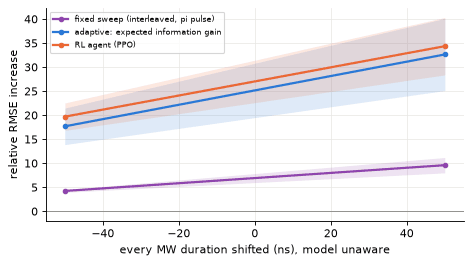
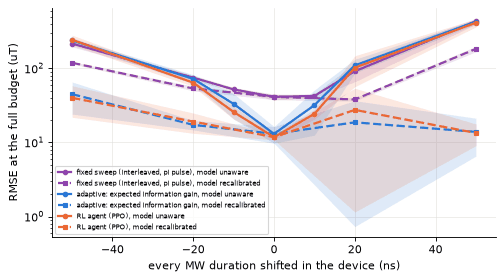
Milestone 5 Task 1 report: recalibrated timing probe, absolute shifted RMSEs, detuned floor, 8-field reference
Rerun (run 20261127-192539): headline numbers unchanged (RL 11.8, EIG 13.1,
fixed 41.3 uT; CNN 56.6). The frozen-model 'much more than the fixed sweep'
claim is withdrawn: shifted, every policy ends at the same absolute error.
With the model recalibrated the agent keeps the long pulse as the greedy
design does, and the information depends on the pulse area. The pi-only
cost is marked not significant; the detuned residual is explained as
MW-free field dependence against the per-seed prior floor; shift labels
use the durations as run.

Claude-Session: https://claude.ai/code/session_011moV3EPNNknRWZQ686AChh

diff --git a/glowbox/experiments/m5_adaptive_field.py b/glowbox/experiments/m5_adaptive_field.py
@@ -997,12 +997,11 @@ def report_body(task: AdaptiveTask, qt: QuantumTestResult, tv: dict[str, Any], r
                 for s in shifts:
                     fr = P[n][mode][s]["dur_fractions"]
                     top = P[n]["recal_top"][s]["top_dur_index"]
-                    d_ns = task.spec.durations_ns[top] + s
+                    sd = shifted(task.spec, s).durations_ns  # as run (floored at the pulse grid)
+                    d_ns = sd[top]
                     L.append(
                         f"- {LABELS[n]}, recalibrated {s:+d} ns: duration fractions "
-                        + ", ".join(
-                            f"{task.spec.durations_ns[j] + s} ns {_ci(fr[j], '{:.2f}')}" for j in range(task.spec.n_dur)
-                        )
+                        + ", ".join(f"{sd[j]} ns {_ci(fr[j], '{:.2f}')}" for j in range(task.spec.n_dur))
                         + f"; most chosen {d_ns} ns, preferred beyond uniform: "
                         f"{'yes' if P[n]['recal_top'][s]['prefers'] else 'no'}."
                     )

diff --git a/docs/results/m5-adaptive-field.md b/docs/results/m5-adaptive-field.md
@@ -14,11 +14,12 @@ RMSE of the folded field after 40000 shots, mean over 5 seeds [95 % Student-t CI
 | RL agent (PPO) | 11.8 [10.9, 12.7] | 806 [794, 818] | 794 [781, 807] | yes |
 | RL network before training (greedy) | 334 [-154, 822] | 805 [792, 817] | 471 [-14, 955] | no |
 | random measurements | 82.2 [53.9, 111] | 809 [783, 835] | 727 [693, 761] | yes |
-| M2 CNN on the fixed sweep | 56.9 [38.5, 75.2] | 823 [812, 834] | 766 [744, 788] | yes |
+| M2 CNN on the fixed sweep | 56.6 [38.9, 74.3] | 823 [812, 834] | 766 [744, 789] | yes |
 | prior only | 829 | 829 | | |
 
-- Paired differences, resonant (positive = the second is better), uT: fixed - EIG 28.2 [27.7, 28.7]; fixed - RL 29.5 [26.4, 32.6]; RL - EIG -1.3 [-4.22, 1.61]; RL before training - RL 322 [-166, 811]; EIG pi only - EIG 15.1 [-1.65, 31.9]; CNN - fixed 15.6 [0.713, 30.5]; random - fixed 40.9 [11.3, 70.6].
-- **Quantum test**: with every MW frequency shifted by 400 MHz (no line within 218 MHz of any MW frequency; the agent and the CNN retrained there) the detuned skill (1 - RMSE / prior RMSE) is between 0.00736 and 0.0294; the gap is significant for 6 of 7 learners (fixed, eig, eig_pi, rl, random, cnn).
+- Paired differences, resonant (positive = the second is better), uT: fixed - EIG 28.2 [27.7, 28.7]; fixed - RL 29.5 [26.4, 32.6]; RL - EIG -1.3 [-4.22, 1.61]; RL before training - RL 322 [-166, 811]; EIG pi only - EIG 15.1 [-1.65, 31.9]; CNN - fixed 15.3 [1.15, 29.5]; random - fixed 40.9 [11.3, 70.6].
+- **Quantum test**: with every MW frequency shifted by 400 MHz (no line within 218 MHz of any MW frequency; the agent and the CNN retrained there) the detuned skill (1 - RMSE / prior RMSE) is between 0.00752 and 0.0294; the gap is significant for 6 of 7 learners (fixed, eig, eig_pi, rl, random, cnn).
+- The detuned floor: the prior's mean on each seed's 200 test fields scores 822 [811, 832] uT (the 829 uT above is the prior's RMSE over the whole prior; a finite test set scatters around it). Detuned RMSE minus this per-seed floor, uT: fixed -15.8 [-29.2, -2.38]; eig -13.1 [-19.2, -6.91]; rl -16 [-21.5, -10.5]; cnn 1.1 [-0.137, 2.33]. The remaining small skill is not MW leakage: far from any line the glow still depends weakly on the field without microwaves (the off-axis field mixes the spin states): the noiseless means of one action differ by up to 0.0059 counts per shot across the test fields (resonant: 0.76), against a block shot noise of ~0.092.
 - Timing: the RL agent's strategy uses microsecond-scale (Rabi-scale) timing: **yes** (details below).
 
 ## Interpretation
@@ -35,40 +36,59 @@ RMSE of the folded field after 40000 shots, mean over 5 seeds [95 % Student-t CI
 - **What they learned: search, then a long pulse.** Both adaptive learners spend 80-87 % of their blocks on the
   400 ns pulse (3.92 pi at the nominal Rabi scale) and most of the rest on the 100 ns pi pulse. The long pulse has
   a narrower excitation profile, so once a line is located it pins its position more sharply; a fixed sweep at 400
-  ns is poor (205 uT) because it has no search phase. Restricting the greedy design to the pi pulse costs 15.1
-  [-1.7, 31.9] uT (28.2 vs 13.1, one seed at 50.8), so choosing the duration matters as well as the frequency.
+  ns is poor (205 uT) because it has no search phase. Restricting the greedy design to the pi pulse is worse at the
+  full budget by 15.1 [-1.7, 31.9] uT (28.2 vs 13.1): suggestive, not significant at 5 seeds (four seeds are about
+  10 uT worse, one is at 50.8 uT), so whether choosing the duration matters as well as the frequency is open.
 - **What PPO adds.** The same network before training, run greedily on its features (which include the predictive
   spread), is bimodal over seeds: 25-71 uT on three, ~765 uT (stuck, never leaves the prior) on two. Trained, every
   seed lands at 10.9-12.8 uT. The agent did not see the information gain; it learned an equivalent choice from
   the predictive features and the error reward.
-- **Comparison with the earlier learners.** Milestone 2's CNN on the fixed sweep reaches 56.9 uT on the same
-  shots, worse than the posterior on the same data (CNN - fixed 15.6 [0.7, 30.5] uT): with a calibrated device the
+- **Comparison with the earlier learners.** Milestone 2's CNN on the fixed sweep reaches 56.6 uT on the same
+  shots, worse than the posterior on the same data (CNN - fixed 15.3 [1.2, 29.5] uT): with a calibrated device the
   model-based posterior extracts more from a sweep than the trained decoder. Milestone 4's learned sensor protocol
   (69.1 uT at 40 points x 1000 shots, the same total) marginalised over unknown device parameters, which this
   milestone does not (below), so the numbers are not directly comparable.
-- **Timing.** The adaptive strategies depend on calibrated pulse areas much more than the fixed sweep: shifting
-  every MW duration by 50 ns while the learners' model keeps the nominal ones multiplies their error 19-35 fold
-  (fixed sweep: 5-11 fold). They work on line flanks with the long pulse, where a wrong rotation angle shifts the
-  predicted response most. This is reliance on the Rabi rotation angle (microsecond-scale timing on the Rabi
-  scale); no echo structure is available in this action set.
+- **Timing.** Evidence that the agent's strategy uses Rabi-scale timing: (1) it puts 87 % of its blocks on one
+  pulse area, the 400 ns (~4 pi) pulse, as the greedy design does (80 %); (2) with every MW duration shifted by
+  -50, -20, +20 or +50 ns and the learners' model rebuilt for the shifted durations (agent not retrained), the
+  agent still puts 86-93 % of its blocks on the longest pulse, the same choice the greedy design makes on the
+  shifted model (76-81 %); (3) the information itself depends on the pulse area: recalibrated at +50 ns the
+  adaptive learners stay at nominal accuracy (EIG 13.9, RL 13.4 uT) while the fixed sweep, whose pi pulse becomes
+  ~1.5 pi, falls to 184 uT; at -50 ns (350 ns long pulse) EIG and RL lose 31.8 [8.0, 55.6] and 28.3 [9.5, 47.1] uT.
+  Caveat: the agent sees each action's duration index, so keeping the longest pulse could partly be a habit; the
+  agreement with the greedy design on every shifted model is what says it is also the informative choice. The
+  probe with the model unaware of the shift is a calibration test, not a strategy test: every policy degrades to
+  about the same absolute error (at +50 ns fixed 435, EIG 427, RL 414 uT; at -50 ns 216, 238, 244 uT; paired
+  differences from the fixed sweep include zero), so the large ratios of the adaptive learners (x19-35 vs x5-11)
+  only reflect their smaller unshifted error. At +-10 ns the adaptive learners stay better than the fixed sweep
+  (RL - fixed -26.3 [-32.8, -19.8] uT at -10 ns). No echo structure is available in this action set.
 - **Quantum test.** Detuned by 400 MHz (no line within 218 MHz of any MW frequency; agent and CNN retrained there),
-  every policy stays at the prior (~806-823 uT vs 829); the gaps are large and significant for every learner except
+  every policy stays near the prior (~806-823 uT); the gaps are large and significant for every learner except
   the untrained network (whose resonant result is itself unreliable): RL 794 [781, 807] uT, EIG 796 [786, 805] uT.
-- **Reference.** Through `Simulator.run()` with the QuTiP reference as the device, the measured means of every
-  action the seed-0 agent and design chose agree with the surrogate to 6.4e-4 of the signal spread. The noisy
-  RMSEs on the two reference fields (RL 13.5 vs 9.4 uT, EIG 8.7 vs 11.3 uT) are within the per-field noise.
+  The small detuned skill that remains (posterior learners 13-16 uT below the per-seed prior-mean floor of 822
+  [811, 832] uT on the same test fields; the CNN at the floor) is not MW leakage: far from every line the glow
+  still depends weakly on the field without microwaves (an off-axis field mixes the spin states; up to 0.006
+  counts per shot across test fields, against a block shot noise of 0.09), and the model-based posterior uses it.
+  The 829 uT "prior only" line is the prior's RMSE over the whole prior, not the per-seed floor.
+- **Reference.** Through `Simulator.run()` with the QuTiP reference as the device, on 8 test fields including the
+  one where the emulator is worst, the measured means of every action the seed-0 agent and design chose agree with
+  the surrogate to 8e-4 of the signal spread. The end-to-end RMSEs there (RL 11.8 vs 11.7 uT, EIG 7.6 vs 9.6 uT,
+  one noisy episode per field) are a noise-level check only.
 
 ## Assumptions and limits
 
 - The device is calibrated: every learner knows the device parameters and only the field is hidden. Milestones 2-4
   marginalised over nuisance parameters; a nuisance-aware posterior (more particle dimensions) is left for later.
 - The learners' model is the emulator table, not the surrogate itself (RMS error 0.23 % of the signal spread, max
-  62 %, i.e. 0.048 counts per shot against a block shot noise of 0.092).
+  62 %, i.e. 0.048 counts per shot against a block shot noise of 0.092). The reference check includes the
+  worst-emulator field but covers 8 of 200 fields.
 - The agent's reward uses the true field (simulation only); `reward="variance"` (the posterior's own width) is
-  implemented for hardware but not used here. 40 PPO iterations per seed and condition (RL training is 156 of the
-  270 min wall time); the agent is trained with 256 particles and no restarts, evaluated with 512 and restarts.
+  implemented for hardware but not used here. 40 PPO iterations per seed and condition (RL training is 132 of the
+  326 min wall time); the agent is trained with 256 particles and no restarts, evaluated with 512 and restarts.
 - Discrete actions (2 MHz frequency grid x four durations at one amplitude), one MW pulse per shot; the design is
   greedy (one step ahead) with a Gaussian approximation to the information gain.
+- The recalibrated timing probe rebuilds the model for shifted durations but does not retrain the agent; shifting
+  by -50 ns floors the 50 ns pulse at the 10 ns pulse grid.
 - Field target and folding as in milestone 2 (wedge Bx >= By >= Bz >= 0). Design notes:
   [docs/notes/adaptive-rl.md](../notes/adaptive-rl.md).
 
@@ -78,22 +98,22 @@ RMSE (uT) vs total shots, resonant, mean [95 % t CI] over seeds:
 
 | total shots | fixed sweep (interleaved, pi pulse) | fixed sweep, whole band at fewer shots | adaptive: expected information gain | adaptive EIG, pi pulse only | RL agent (PPO) | random measurements | M2 CNN on the fixed sweep |
 | --- | --- | --- | --- | --- | --- | --- | --- |
-| 2000 | 733 [709, 757] | 473 [440, 506] | 476 [428, 523] | 477 [431, 524] | 480 [423, 537] | 692 [682, 703] | 513 [484, 543] |
-| 4000 | 509 [460, 557] | 356 [335, 376] | 257 [217, 298] | 285 [264, 307] | 276 [222, 330] | 588 [556, 620] | 388 [357, 418] |
-| 10000 | 156 [132, 180] | 162 [140, 184] | 66.4 [43.6, 89.2] | 51.4 [39, 63.7] | 109 [42.7, 176] | 410 [379, 441] | 199 [180, 219] |
-| 20000 | 69.2 [50.1, 88.3] | 61.6 [54, 69.2] | 38.1 [14.3, 61.8] | 36 [22.1, 49.9] | 40.7 [13.9, 67.5] | 230 [210, 249] | 93.3 [81.2, 105] |
-| 40000 | 41.3 [37.7, 44.9] | 40.1 [38.2, 42] | 13.1 [9.77, 16.4] | 28.2 [12.5, 43.9] | 11.8 [10.9, 12.7] | 82.2 [53.9, 111] | 56.9 [38.5, 75.2] |
+| 2000 | 733 [709, 757] | 473 [440, 506] | 476 [428, 523] | 477 [431, 524] | 480 [423, 537] | 692 [682, 703] | 514 [483, 545] |
+| 4000 | 509 [460, 557] | 356 [335, 376] | 257 [217, 298] | 285 [264, 307] | 276 [222, 330] | 588 [556, 620] | 389 [358, 420] |
+| 10000 | 156 [132, 180] | 162 [140, 184] | 66.4 [43.6, 89.2] | 51.4 [39, 63.7] | 109 [42.7, 176] | 410 [379, 441] | 198 [177, 218] |
+| 20000 | 69.2 [50.1, 88.3] | 61.6 [54, 69.2] | 38.1 [14.3, 61.8] | 36 [22.1, 49.9] | 40.7 [13.9, 67.5] | 230 [210, 249] | 93.5 [81.4, 106] |
+| 40000 | 41.3 [37.7, 44.9] | 40.1 [38.2, 42] | 13.1 [9.77, 16.4] | 28.2 [12.5, 43.9] | 11.8 [10.9, 12.7] | 82.2 [53.9, 111] | 56.6 [38.9, 74.3] |
 
-Shots until the RMSE over the test fields first falls below a threshold (mean over seeds; n/a = not within the budget):
+Shots until the RMSE over the test fields first falls below a threshold: mean over seeds when every seed reaches it; otherwise the median with the seeds that never reach it counted as beyond the budget (a mean over only the seeds that reach it would be biased low):
 
 | policy | <= 200 uT | <= 100 uT | <= 50 uT |
 | --- | --- | --- | --- |
 | fixed sweep (interleaved, pi pulse) | 8.88e+03 | 1.41e+04 | 2.88e+04 |
 | adaptive: expected information gain | 4.96e+03 | 8.08e+03 | 1.88e+04 |
-| adaptive EIG, pi pulse only | 5.68e+03 | 8.48e+03 | 1.01e+04 (4/5 seeds) |
+| adaptive EIG, pi pulse only | 5.68e+03 | 8.48e+03 | median 1e+04 (4/5 seeds reach it) |
 | RL agent (PPO) | 6.4e+03 | 1.26e+04 | 1.87e+04 |
-| RL network before training (greedy) | 1.27e+04 (3/5 seeds) | 1.95e+04 (3/5 seeds) | 3.7e+04 (2/5 seeds) |
-| random measurements | 2.42e+04 | 3.42e+04 (4/5 seeds) | n/a (0/5 seeds) |
+| RL network before training (greedy) | median 1.64e+04 (3/5 seeds reach it) | median 2.64e+04 (3/5 seeds reach it) | > 4e+04 (2/5 seeds reach it) |
+| random measurements | 2.42e+04 | median 3.52e+04 (4/5 seeds reach it) | > 4e+04 (0/5 seeds reach it) |
 
 ## Fixed sweeps at each duration
 
@@ -115,23 +135,42 @@ Durations (pulse areas at the nominal Rabi scale) chosen, fraction of all blocks
 | adaptive: expected information gain | 0.00 [-0.00, 0.00] | 0.16 [0.15, 0.17] | 0.04 [0.03, 0.05] | 0.80 [0.79, 0.81] |
 | RL agent (PPO) | 0.00 [-0.00, 0.00] | 0.12 [0.10, 0.15] | 0.01 [0.00, 0.02] | 0.87 [0.84, 0.89] |
 
-Every MW duration shifted in the device while the learners' model assumes the nominal durations; relative RMSE increase [t CI]:
+Every MW duration shifted in the device, the learners' model keeps the nominal durations (miscalibrated model): RMSE (uT) at the full budget [t CI], and the ratio to the unshifted RMSE:
 
-| policy | -50 ns | +50 ns |
-| --- | --- | --- |
-| fixed sweep (interleaved, pi pulse) | +4.24 [+3.95, +4.52] | +9.60 [+8.00, +11.20] |
-| adaptive: expected information gain | +17.68 [+13.88, +21.48] | +32.63 [+25.12, +40.14] |
-| RL agent (PPO) | +19.69 [+16.84, +22.54] | +34.35 [+28.38, +40.32] |
+| policy | unshifted | -50 ns | -20 ns | -10 ns | +10 ns | +20 ns | +50 ns |
+| --- | --- | --- | --- | --- | --- | --- | --- |
+| fixed sweep (interleaved, pi pulse) | 41.3 [37.7, 44.9] | 216 [195, 237] (x5.2) | 75 [69, 81] (x1.8) | 52 [48.8, 55.3] (x1.3) | 42.5 [39.7, 45.3] (x1) | 91.5 [66, 117] (x2.2) | 435 [394, 476] (x11) |
+| adaptive: expected information gain | 13.1 [9.77, 16.4] | 238 [220, 257] (x19) | 72.2 [62.2, 82.1] (x5.6) | 33.1 [20.7, 45.6] (x2.5) | 31.9 [12.6, 51.2] (x2.3) | 110 [86.6, 133] (x8.7) | 427 [399, 456] (x34) |
+| RL agent (PPO) | 11.8 [10.9, 12.7] | 244 [206, 281] (x21) | 64.1 [57.2, 71] (x5.5) | 25.8 [20.7, 30.9] (x2.2) | 24.4 [20.7, 28.1] (x2.1) | 102 [56.5, 148] (x8.7) | 414 [364, 465] (x35) |
 
-- fixed sweep (interleaved, pi pulse): relies on its pulse timing (> 10 % worse at the largest shift, CI): yes.
-- adaptive: expected information gain: relies on its pulse timing (> 10 % worse at the largest shift, CI): yes; most chosen duration 400 ns (3.92 pi), preferred beyond uniform: yes.
-- RL agent (PPO): relies on its pulse timing (> 10 % worse at the largest shift, CI): yes; most chosen duration 400 ns (3.92 pi), preferred beyond uniform: yes.
-- `strategy_learns_timing` (RL: relies on pulse timing and prefers a pulse area) = **True**.
+- Paired, model unaware, learner - fixed sweep (uT): -50 ns: EIG 22.4 [-3.54, 48.3], RL 27.5 [-25.5, 80.5]; -20 ns: EIG -2.8 [-10.9, 5.32], RL -10.9 [-22.1, 0.365]; -10 ns: EIG -18.9 [-30.4, -7.47], RL -26.3 [-32.8, -19.8]; +10 ns: EIG -10.7 [-31, 9.65], RL -18.2 [-23.4, -12.9]; +20 ns: EIG 18.3 [1.3, 35.2], RL 10.8 [-43.6, 65.2]; +50 ns: EIG -7.65 [-49.3, 34], RL -20.8 [-45.7, 4.07]. With a miscalibrated model every model-based estimator degrades whatever its strategy, so this probe measures the sensitivity to calibration and is not used for the timing verdict; the large ratios of the adaptive learners come from their smaller unshifted error.
+
+Every MW duration shifted in the device, the learners' model (emulator table) rebuilt for the shifted durations, policies unchanged (the agent is not retrained): RMSE (uT) at the full budget [t CI], and the ratio to the unshifted RMSE:
+
+| policy | unshifted | -50 ns | -20 ns | +20 ns | +50 ns |
+| --- | --- | --- | --- | --- | --- |
+| fixed sweep (interleaved, pi pulse) | 41.3 [37.7, 44.9] | 119 [115, 123] (x2.9) | 53.5 [49.7, 57.3] (x1.3) | 38.1 [36.2, 39.9] (x0.92) | 184 [168, 200] (x4.5) |
+| adaptive: expected information gain | 13.1 [9.77, 16.4] | 44.9 [24.2, 65.5] (x3.7) | 17.3 [14.8, 19.8] (x1.4) | 18.7 [0.732, 36.7] (x1.4) | 13.9 [6.55, 21.3] (x1.1) |
+| RL agent (PPO) | 11.8 [10.9, 12.7] | 40.1 [21.9, 58.3] (x3.5) | 19.1 [13.3, 25] (x1.6) | 27.5 [1.15, 53.9] (x2.3) | 13.4 [9.07, 17.8] (x1.1) |
+
+- Recalibrated, shifted - unshifted RMSE (uT): -50 ns: fixed 77.8 [73.9, 81.6], eig 31.8 [7.98, 55.6], rl 28.3 [9.51, 47.1]; -20 ns: fixed 12.3 [8.06, 16.4], eig 4.21 [0.958, 7.45], rl 7.35 [1.14, 13.6]; +20 ns: fixed -3.23 [-5.46, -1.01], eig 5.61 [-12.3, 23.6], rl 15.7 [-10.3, 41.8]; +50 ns: fixed 143 [126, 159], eig 0.819 [-7.05, 8.69], rl 1.64 [-3.09, 6.38].
+- adaptive: expected information gain, recalibrated -50 ns: duration fractions 10 ns 0.00 [-0.00, 0.00], 50 ns 0.04 [0.04, 0.05], 150 ns 0.15 [0.15, 0.16], 350 ns 0.81 [0.80, 0.81]; most chosen 350 ns, preferred beyond uniform: yes.
+- adaptive: expected information gain, recalibrated -20 ns: duration fractions 30 ns 0.00 [0.00, 0.00], 80 ns 0.17 [0.16, 0.17], 180 ns 0.06 [0.06, 0.06], 380 ns 0.77 [0.77, 0.78]; most chosen 380 ns, preferred beyond uniform: yes.
+- adaptive: expected information gain, recalibrated +20 ns: duration fractions 70 ns 0.03 [0.03, 0.03], 120 ns 0.16 [0.16, 0.17], 220 ns 0.04 [0.04, 0.04], 420 ns 0.76 [0.76, 0.77]; most chosen 420 ns, preferred beyond uniform: yes.
+- adaptive: expected information gain, recalibrated +50 ns: duration fractions 100 ns 0.12 [0.11, 0.13], 150 ns 0.03 [0.03, 0.03], 250 ns 0.06 [0.05, 0.07], 450 ns 0.80 [0.79, 0.81]; most chosen 450 ns, preferred beyond uniform: yes.
+- RL agent (PPO), recalibrated -50 ns: duration fractions 10 ns 0.00 [0.00, 0.00], 50 ns 0.03 [0.00, 0.06], 150 ns 0.05 [-0.03, 0.13], 350 ns 0.92 [0.81, 1.02]; most chosen 350 ns, preferred beyond uniform: yes.
+- RL agent (PPO), recalibrated -20 ns: duration fractions 30 ns 0.00 [0.00, 0.00], 80 ns 0.13 [0.10, 0.16], 180 ns 0.01 [0.00, 0.02], 380 ns 0.86 [0.82, 0.89]; most chosen 380 ns, preferred beyond uniform: yes.
+- RL agent (PPO), recalibrated +20 ns: duration fractions 70 ns 0.01 [-0.01, 0.04], 120 ns 0.11 [0.08, 0.15], 220 ns 0.01 [0.00, 0.01], 420 ns 0.86 [0.83, 0.90]; most chosen 420 ns, preferred beyond uniform: yes.
+- RL agent (PPO), recalibrated +50 ns: duration fractions 100 ns 0.05 [0.00, 0.10], 150 ns 0.01 [0.00, 0.01], 250 ns 0.02 [-0.01, 0.05], 450 ns 0.93 [0.86, 1.00]; most chosen 450 ns, preferred beyond uniform: yes.
+
+- adaptive: expected information gain: most chosen duration 400 ns (3.92 pi), preferred beyond uniform: yes.
+- RL agent (PPO): most chosen duration 400 ns (3.92 pi), preferred beyond uniform: yes.
+- `strategy_learns_timing` (RL prefers a pulse area beyond uniform, and with every duration shifted and the model recalibrated it still prefers one, the one the information-greedy design picks there) = **True**.
 
 ## Emulator and reference check
 
 - Emulator (the learners' model) vs the full surrogate (the truth) on the test fields, resonant: RMS error 0.00234 of the signal spread over actions, max 0.617 (0.0478 counts per shot; the shot noise of a block of 400 shots is ~0.0922 counts per shot).
-- QuTiP reference as the device through `Simulator.run()` (`SimulatorBackend`), seed-0 agent and EIG, 2 test fields: RL RMSE 13.5 (reference) vs 9.4 uT (surrogate truth), EIG 8.7 vs 11.3 uT; noiseless means of every action measured within 0.00064 (RL) and 0.00064 (EIG) of the signal spread (78 reference runs, 183 s).
+- QuTiP reference as the device through `Simulator.run()` (`SimulatorBackend`), seed-0 agent and EIG, 8 test fields (including the one where the emulator is worst): noiseless means of every action measured within 0.0008 (RL) and 0.0008 (EIG) of the signal spread (455 reference runs, 255 s). The end-to-end RMSE on these few fields (one noisy episode each; a noise-level check only): RL 11.8 (reference) vs 11.7 uT (surrogate truth), EIG 7.6 vs 9.6 uT.
 
 ## Quantum test
 
@@ -143,14 +182,14 @@ Every MW duration shifted in the device while the learners' model assumes the no
 | rl_rmse_ut | 11.78 [10.85, 12.71] | 805.8 [793.7, 817.9] | 794 [781.1, 806.9] | 10.91, 12.25, 12.81, 11.52, 11.43; 817.8, 794, 797.8, 809.6, 809.8 |
 | rl_init_rmse_ut | 334.1 [-154, 822.3] | 804.8 [792.5, 817.1] | 470.7 [-13.96, 955.3] | 761.6, 45.05, 70.99, 767.2, 25.71; 795.9, 795.9, 805.6, 820, 806.5 |
 | random_rmse_ut | 82.24 [53.94, 110.5] | 809 [783.3, 834.8] | 726.8 [693, 760.6] | 65, 65.3, 74.07, 119.7, 87.12; 830.5, 786.3, 788.7, 813, 826.7 |
-| cnn_rmse_ut | 56.88 [38.52, 75.25] | 823 [811.9, 834.1] | 766.2 [743.8, 788.5] | 61.11, 49.19, 81.04, 47.02, 46.05; 832.4, 811, 818.7, 821.8, 831.3 |
+| cnn_rmse_ut | 56.63 [38.95, 74.31] | 822.9 [811.5, 834.3] | 766.3 [743.9, 788.6] | 60.72, 49.29, 79.87, 46.94, 46.33; 832.4, 811, 817.7, 821.8, 831.6 |
 | fixed_skill | 0.9502 [0.9459, 0.9545] | 0.02789 [0.01789, 0.03789] | 0.9223 [0.9101, 0.9345] | 0.9501, 0.9525, 0.9442, 0.9523, 0.9519; 0.03518, 0.02224, 0.03138, 0.03396, 0.01669 |
 | eig_skill | 0.9842 [0.9802, 0.9882] | 0.0246 [0.01511, 0.0341] | 0.9596 [0.9483, 0.9709] | 0.9838, 0.9863, 0.9788, 0.9867, 0.9854; 0.02013, 0.028, 0.03162, 0.02986, 0.0134 |
 | eig_pi_skill | 0.966 [0.9471, 0.9849] | 0.01402 [-0.002987, 0.03102] | 0.952 [0.9365, 0.9674] | 0.9715, 0.9722, 0.9739, 0.9735, 0.9388; 0.018, 0.02476, 0.02815, 0.0008396, -0.001657 |
 | rl_skill | 0.9858 [0.9847, 0.9869] | 0.02814 [0.0136, 0.04268] | 0.9576 [0.9421, 0.9732] | 0.9868, 0.9852, 0.9846, 0.9861, 0.9862; 0.01372, 0.04241, 0.03774, 0.02354, 0.02331 |
 | rl_init_skill | 0.597 [0.008283, 1.186] | 0.02936 [0.01451, 0.04421] | 0.5677 [-0.01683, 1.152] | 0.0814, 0.9457, 0.9144, 0.07471, 0.969; 0.04006, 0.04008, 0.02834, 0.01098, 0.02734 |
 | random_skill | 0.9008 [0.8667, 0.9349] | 0.02424 [-0.00681, 0.05529] | 0.8766 [0.8358, 0.9174] | 0.9216, 0.9212, 0.9107, 0.8556, 0.8949; -0.001645, 0.0517, 0.04874, 0.01948, 0.002926 |
-| cnn_skill | 0.9314 [0.9092, 0.9535] | 0.007359 [-0.006044, 0.02076] | 0.924 [0.8971, 0.951] | 0.9263, 0.9407, 0.9023, 0.9433, 0.9445; -0.003934, 0.02189, 0.01254, 0.008866, -0.002561 |
+| cnn_skill | 0.9317 [0.9104, 0.953] | 0.007518 [-0.006221, 0.02126] | 0.9242 [0.8972, 0.9511] | 0.9268, 0.9406, 0.9037, 0.9434, 0.9441; -0.00395, 0.02189, 0.01379, 0.008866, -0.003001 |
 
 ## Setup
 
@@ -159,7 +198,7 @@ Every MW duration shifted in the device while the learners' model assumes the no
 - Posterior: 512 particles, adaptive tempering, resample + 3 MH moves when ESS < 0.5 N, annealed restarts from the prior after blocks [10, 25, 50, 75, 100] (adopted when 1 nat better); EIG from 64 posterior draws (gaussian approximation).
 - RL: PPO, 256 parallel episodes per iteration, 40 iterations, lr 0.001, 4 epochs x 16 minibatches, clip 0.2, entropy 0.003, GAE lambda 0.95, gamma 1; per-action set policy (hidden 64); 256 posterior particles and no restarts while training; training fields from the seed's pool of 3000, test fields unseen.
 - CNN: milestone 2's ConvDecoder on the fixed sweep (both windows per frequency), 2500 steps of 256, shots per point log-uniform [10, 2000], bank = the training pool, evaluated with the whole band at the budget's shots per point.
-- 200 test fields per seed. Wall time: tables 0 min, truths 18 min, episodes 76 min, RL training 156 min, CNN 18 min.
+- 200 test fields per seed. Wall time: tables 41 min, truths 19 min, episodes 116 min, RL training 132 min, CNN 14 min.
 
 ![shots-to-accuracy](figures/m5-adaptive-field-shots-to-accuracy.png)
 
@@ -173,12 +212,12 @@ Every MW duration shifted in the device while the learners' model assumes the no
 
 ## Provenance
 
-- run id: `20261127-121226-m5-adaptive-field-3fac`
-- git: `8c9495867763bbfc14bcb9232195d608b3726029`
+- run id: `20261127-192539-m5-adaptive-field-9dc3`
+- git: `4c1c9db5c6dc98d12f795cc02af133941b2fa5d0`
 - seed: 20261127
 - device: cuda NVIDIA GeForce RTX 5070 Ti
 - python 3.12.14, glowbox 0.1.0, torch 2.11.0+cu128, qutip 5.3.1, numpy 2.5.5, scipy 1.18.1, pyarrow 26.0.1
-- started 2026-11-27T12:12:27+00:00, finished 2026-11-27T16:42:37+00:00
+- started 2026-11-27T19:25:39+00:00, finished 2026-11-28T00:51:39+00:00
 
 ## Config
 
@@ -260,7 +299,7 @@ prior:
   b_max_t: 0.003
   b_min_t: 0.0005
 reference:
-  n_fields: 2
+  n_fields: 8
 rl:
   clip: 0.2
   ent_coef: 0.003
@@ -281,8 +320,17 @@ seeds:
 - 3
 - 4
 timing:
+  recal_shifts_ns:
+  - -50
+  - -20
+  - 20
+  - 50
   shifts_ns:
   - -50
+  - -20
+  - -10
+  - 10
+  - 20
   - 50
 ```
 
@@ -320,11 +368,11 @@ timing:
 | random_gap | 726.803 |
 | random_gap_lo | 692.995 |
 | random_gap_hi | 760.612 |
-| cnn_rmse_ut_resonant | 56.8819 |
-| cnn_rmse_ut_detuned | 823.037 |
-| cnn_gap | 766.155 |
-| cnn_gap_lo | 743.838 |
-| cnn_gap_hi | 788.471 |
+| cnn_rmse_ut_resonant | 56.6297 |
+| cnn_rmse_ut_detuned | 822.905 |
+| cnn_gap | 766.275 |
+| cnn_gap_lo | 743.939 |
+| cnn_gap_hi | 788.612 |
 | strategy_learns_timing | 1 |
 | no_line_margin_mhz | 218.462 |
-| wall_seconds | 16207 |
+| wall_seconds | 19560.4 |

diff --git a/README.md b/README.md
@@ -36,22 +36,24 @@ detuned 400 MHz on the right.*
 
 - Task 1, 40000 shots, calibrated device: RL agent (PPO) 11.8 [10.9, 12.7] uT, information-greedy design 13.1
   [9.8, 16.4], fixed interleaved pi-pulse sweep 41.3 [37.7, 44.9], random measurements 82.2, milestone 2's CNN on
-  the fixed sweep 56.9; the agent ties the greedy design (RL - EIG -1.3 [-4.2, 1.6] uT). Both search with the pi
-  pulse and then spend 80-87 % of their blocks on a 400 ns (~4 pi) pulse; shifting every duration by 50 ns
-  multiplies their error 19-35 fold (Rabi-scale pulse areas). Detuned, all stay at the prior (~810 vs 829 uT);
-  gaps RL 794 [781, 807], EIG 796 [786, 805] uT.
+  the fixed sweep 56.6; the agent ties the greedy design (RL - EIG -1.3 [-4.2, 1.6] uT). Both search with the pi
+  pulse and then spend 80-87 % of their blocks on a 400 ns (~4 pi) pulse; with every duration shifted by up to
+  50 ns and the model recalibrated, the agent (not retrained) keeps the long pulse as the greedy design does, and
+  the information depends on the pulse area (fixed pi sweep 184 uT at +50 ns, adaptive learners ~13 uT). With the
+  model unaware of the shift every policy degrades to the same absolute error (a calibration test, not a strategy
+  test). Detuned, all stay near the prior (~810 vs 829 uT); gaps RL 794 [781, 807], EIG 796 [786, 805] uT.
 - Task 2, 4 bits at 10^4 shots: the PPO-learned write recalls 3.01 [2.72, 3.30] bits, the write trained by
   gradient through the surrogate 3.65 [3.44, 3.86], the fixed random encoder 0.86 [0.38, 1.33]; detuned every
   write < 0.01 bits. The learned write relies on its rotation angles (+-50 ns: -1.6 bits even with the readout
   recalibrated) and on coherent segment phases.
-- QuTiP reference through `Simulator.run()`: measurement means within 6.4e-4 (Task 1) and templates within 6.8e-4
-  (Task 2) of the signal spread.
+- QuTiP reference through `Simulator.run()`: measurement means within 8e-4 (Task 1, 8 fields) and templates within
+  6.8e-4 (Task 2) of the signal spread.
 - Code: `glowbox/learn/measurement.py` (measurements as actions, emulator table), `glowbox/learn/adaptive.py`
   (particle posterior, expected information gain), `glowbox/learn/rl.py` (PPO, gymnasium-style environments with
   a `Simulator.run()` backend for hardware later), `glowbox/learn/bit_write.py`. Notes:
   [docs/notes/adaptive-rl.md](docs/notes/adaptive-rl.md).
 
-Run (RTX 5070 Ti: Task 1 ~4.5 h, Task 2 ~1.6 h; `--quick` for a smoke run):
+Run (RTX 5070 Ti: Task 1 ~5.5 h, Task 2 ~1.6 h; `--quick` for a smoke run):
 
     uv run python -m glowbox.experiments.m5_adaptive_field --quick
     uv run python -m glowbox.experiments.m5_rl_bit_write --quick
